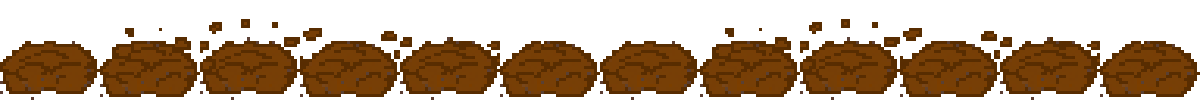
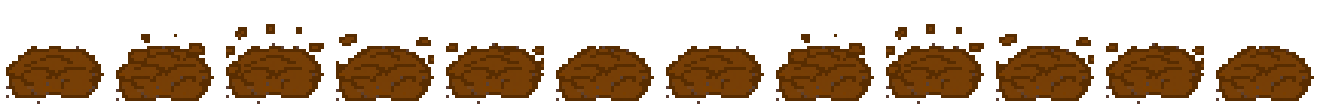
added animation for when the mole is hit, and added a check to prevent the mole from digging if it is hit

Changed region(s): [[0.0, 0.18, 1.0, 0.99]]

diff --git a/moles.java b/moles.java
@@ -12,47 +12,28 @@ public class moles extends JButton {
     private static final int DIG_FRAMES = 12;  
     private static final int IDLE_FRAMES = 8;       // frame count in idleSheet.png
     private static final int IDLE_FRAME_MS = 150;   // time per frame, lower is faster
-
+    private static final int HIT_FRAMES = 2;
+    private static final int HIT_FRAME_MS = 100; 
+    
     private Timer idleTimer;
+    private Timer hitTimer;
+
 
     private final ImageIcon moleIcon = loadIcon("images/mole.png");
     private final ImageIcon hiddenIcon = loadIcon("images/hiddenMole.png");
     private final ImageIcon[] digFrames = loadSheet("images/digSheet.png", DIG_FRAMES);
     private final ImageIcon[] idleFrames = loadSheet("images/moleSheet.png", IDLE_FRAMES);
+    private final ImageIcon[] hitFrames = loadSheet("images/moleHit.png", HIT_FRAMES);
+    private static final int HIT_LOOPS = 3;
 
     private boolean isUp = false;
     private boolean isDigging = false;
+    private boolean isHit = false;
     private final Runnable onWhack;
     private Timer autoHideTimer;
     private Timer digTimer;
 
-    public moles(Runnable onWhack) {
-        this.onWhack = onWhack;
-
-        setBorderPainted(false);
-        setContentAreaFilled(false);
-        setFocusPainted(false);
-        setOpaque(false);
-
-        //setIcon(hiddenIcon);
-
-        addActionListener(e -> whack());
-    }
-
-private void startIdle() {
-    if (idleTimer != null) idleTimer.stop();
-
-    int[] frame = {0};
-    setIcon(idleFrames[0]);
-
-    idleTimer = new Timer(IDLE_FRAME_MS, e -> {
-        frame[0] = (frame[0] + 1) % IDLE_FRAMES;   // wraps back to 0 to loop
-        setIcon(idleFrames[frame[0]]);
-    });
-    idleTimer.start();
-}
-
-    private static ImageIcon loadIcon(String path) {
+   private static ImageIcon loadIcon(String path) {
         URL url = moles.class.getResource(path);
         if (url == null) {
             System.err.println("Image not found: " + path);
@@ -92,9 +73,37 @@ private void startIdle() {
         return frames;
     }
 
+    // When mole is whacked, the onWhack Runnable is called. This allows the game to update the score.
+    public moles(Runnable onWhack) {
+        this.onWhack = onWhack;
+
+        setBorderPainted(false);
+        setContentAreaFilled(false);
+        setFocusPainted(false);
+        setOpaque(false);
+
+        //setIcon(hiddenIcon);
+
+        addActionListener(e -> whack());
+    }
+
+    private void startIdle() {
+        if (idleTimer != null) idleTimer.stop();
+
+        int[] frame = {0};
+        setIcon(idleFrames[0]);
+
+        idleTimer = new Timer(IDLE_FRAME_MS, e -> {
+            frame[0] = (frame[0] + 1) % IDLE_FRAMES;   // wraps back to 0 to loop
+            setIcon(idleFrames[frame[0]]);
+        });
+        idleTimer.start();
+    }
+
+ 
     // Plays the dig frames over digDurationMs, then pops up.
     public void startDig(int digDurationMs, int upDurationMs) {
-        if (isUp || isDigging) return;
+        if (isUp || isDigging || isHit) return;
         isDigging = true;
 
         int frameDelay = Math.max(1, digDurationMs / DIG_FRAMES);
@@ -130,10 +139,12 @@ private void startIdle() {
     public void hidemole() {
         isUp = false;
         isDigging = false;
+        isHit = false;
         setIcon(hiddenIcon);
         if (autoHideTimer != null) autoHideTimer.stop();
         if (digTimer != null) digTimer.stop();
         if (idleTimer != null) idleTimer.stop();
+        if (hitTimer != null) hitTimer.stop();
 
     }
 
@@ -143,13 +154,37 @@ private void startIdle() {
 
     // True only when the mole is fully down and not digging.
     public boolean isHidden() {
-        return !isUp && !isDigging;
+        return !isUp && !isDigging && !isHit;
+    }
+
+    // Plays the hit frames HIT_LOOPS times, then goes back to the hole.
+    private void startHit() {
+        if (hitTimer != null) hitTimer.stop();
+        isHit = true;
+
+        int[] step = {0};
+        setIcon(hitFrames[0]);
+
+        hitTimer = new Timer(HIT_FRAME_MS, e -> {
+            step[0]++;
+            if (step[0] >= HIT_FRAMES * HIT_LOOPS) {
+                hitTimer.stop();
+                isHit = false;
+                setIcon(hiddenIcon);
+            } else {
+                setIcon(hitFrames[step[0] % HIT_FRAMES]); 
+            }
+        });
+        hitTimer.start();
     }
 
     private void whack() {
         if (isUp) {
-            hidemole();
+            isUp = false;
+            if (autoHideTimer != null) autoHideTimer.stop();
+            if (idleTimer != null) idleTimer.stop();
             onWhack.run();
+            startHit();
         }
     }
 }

diff --git a/GameConfig.java b/GameConfig.java
@@ -17,7 +17,7 @@ public class GameConfig {
     public static final int areaWidth = scale(1000); // Width of the play area
     public static final int areaHeight = scale(500); // Height of the play area
 
-    public static final int moleSize = scale(110);
+    public static final int moleSize = scale(130);
     public static final int cursorSize = scale(75);    // hammer cursor size in pixels
     public static final int setBoundDiffX = 550; // sets the x bound for the difficulty buttons on the start screen
 
